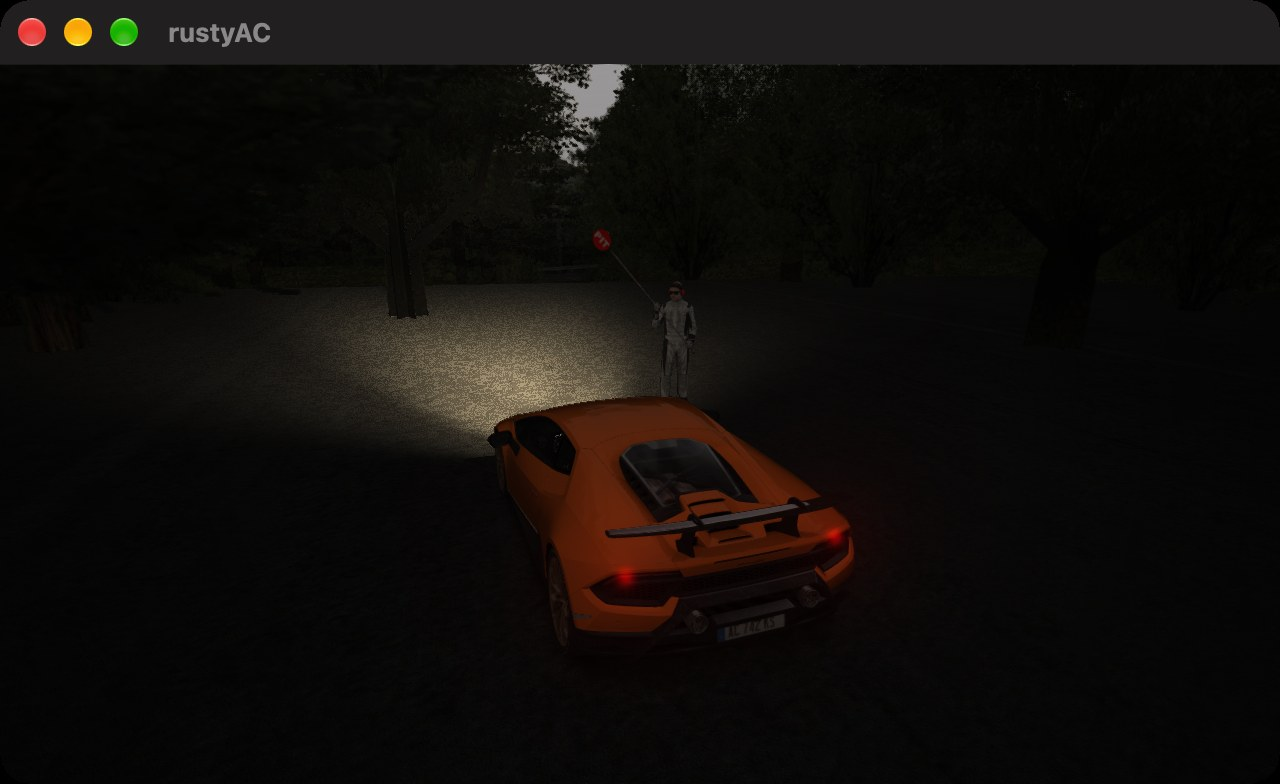
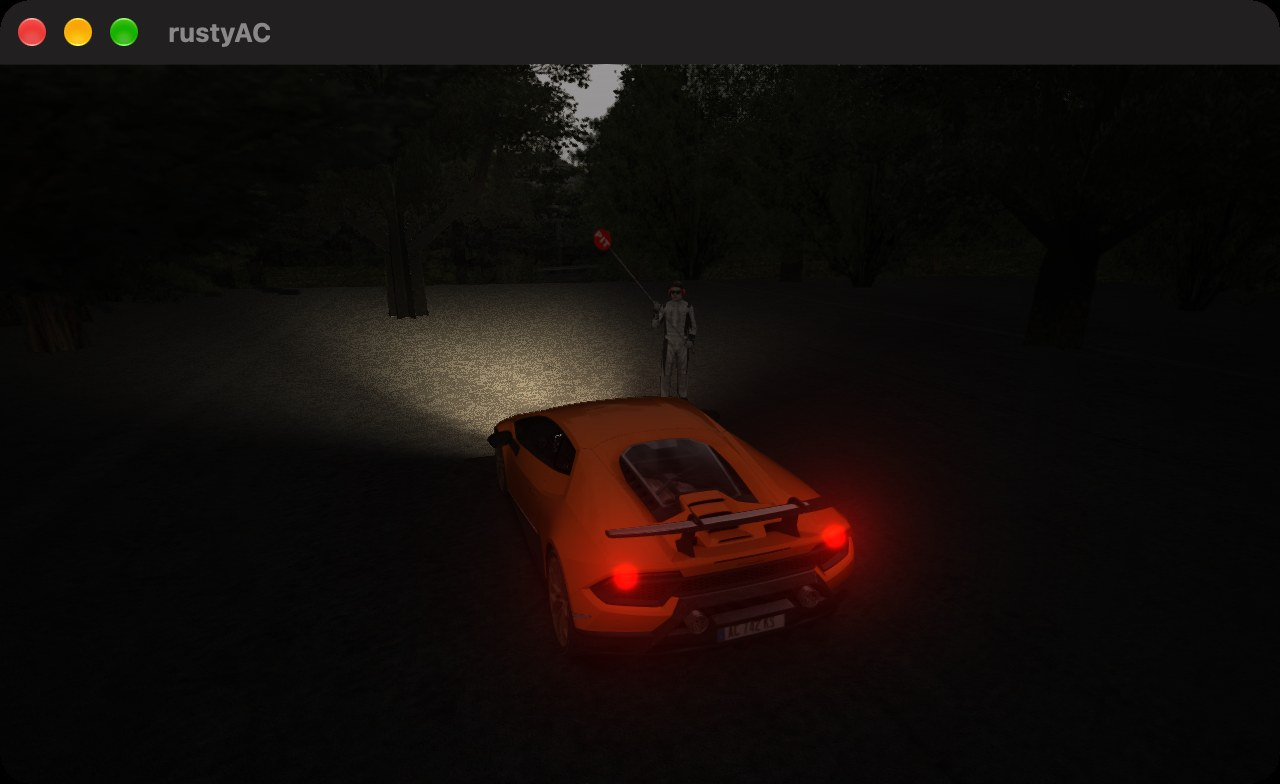
render: tail lamps read on every car; night shots redone
Claude-Session: https://claude.ai/code/session_018KH1JE4PQnkHULvykV6PeW

Changed region(s): [[0.4062, 0.5816, 0.7188, 0.8571]]

diff --git a/crates/rustyac-game/src/render/ac.rs b/crates/rustyac-game/src/render/ac.rs
@@ -1486,8 +1486,10 @@ FILTER=default
             if let Some(r) = model.rear {
                 put(&mut out, 13, world(r[0]), fade * seen_rear * 0.5);
                 put(&mut out, 14, world(r[1]), fade * seen_rear * 0.5);
-                put(&mut out, 18, model.rear_color_off, 0.0);
-                put(&mut out, 19, model.rear_color_off, 0.0);
+                // (the tail lamps with the headlights on and no brake: the dimmer colour, but never less than a third of the brake's)
+                let tail = [0, 1, 2].map(|k| model.rear_color_off[k].max(model.rear_color[k] * 0.35));
+                put(&mut out, 18, tail, 0.0);
+                put(&mut out, 19, tail, 0.0);
             }
             // the car cut-out of the pools: the body's extent from the model, a low block over the bonnet
             let (lo, hi) = (model.min, model.max);

diff --git a/docs/graphics/README.md b/docs/graphics/README.md
@@ -146,6 +146,6 @@ mirrored in the wet road as a streak running towards the camera: `checks/lamps_g
 streaks lie on the wet tarmac; right: from behind and the side, only the beam on the road). The 24 night shots (`_night_rain`, `_night_dry`) were taken again with it.
 Frame rate with it, nevadadrift at night in rain with headlights, 1920x1080: 59.6 and 58.9 fps (the Mac was quiet this time).
 
-- `checks/night_rain_all_12.jpg`: all 12 track-and-car pairs at night in rain, seen from behind: the headlight beams lie on the road for every pair, and the tail lamps
-  glow red and are mirrored in the wet road on the Huracán, Lancer and (faintly) Skyline; the GT-R's tail lamps barely read, because their `lights.ini` colour is
-  not among the brightest entries the lamp model picks.
+- `checks/night_rain_all_12.jpg`: all 12 track-and-car pairs at night in rain, seen from behind: the headlight beams lie on the road for every pair and the
+  tail lamps glow red and are mirrored in the wet road on all four cars (the lamp model takes the brake lamps' colour at a third when the pedal is up, so the
+  GT-R's and Skyline's tail lamps read too).
